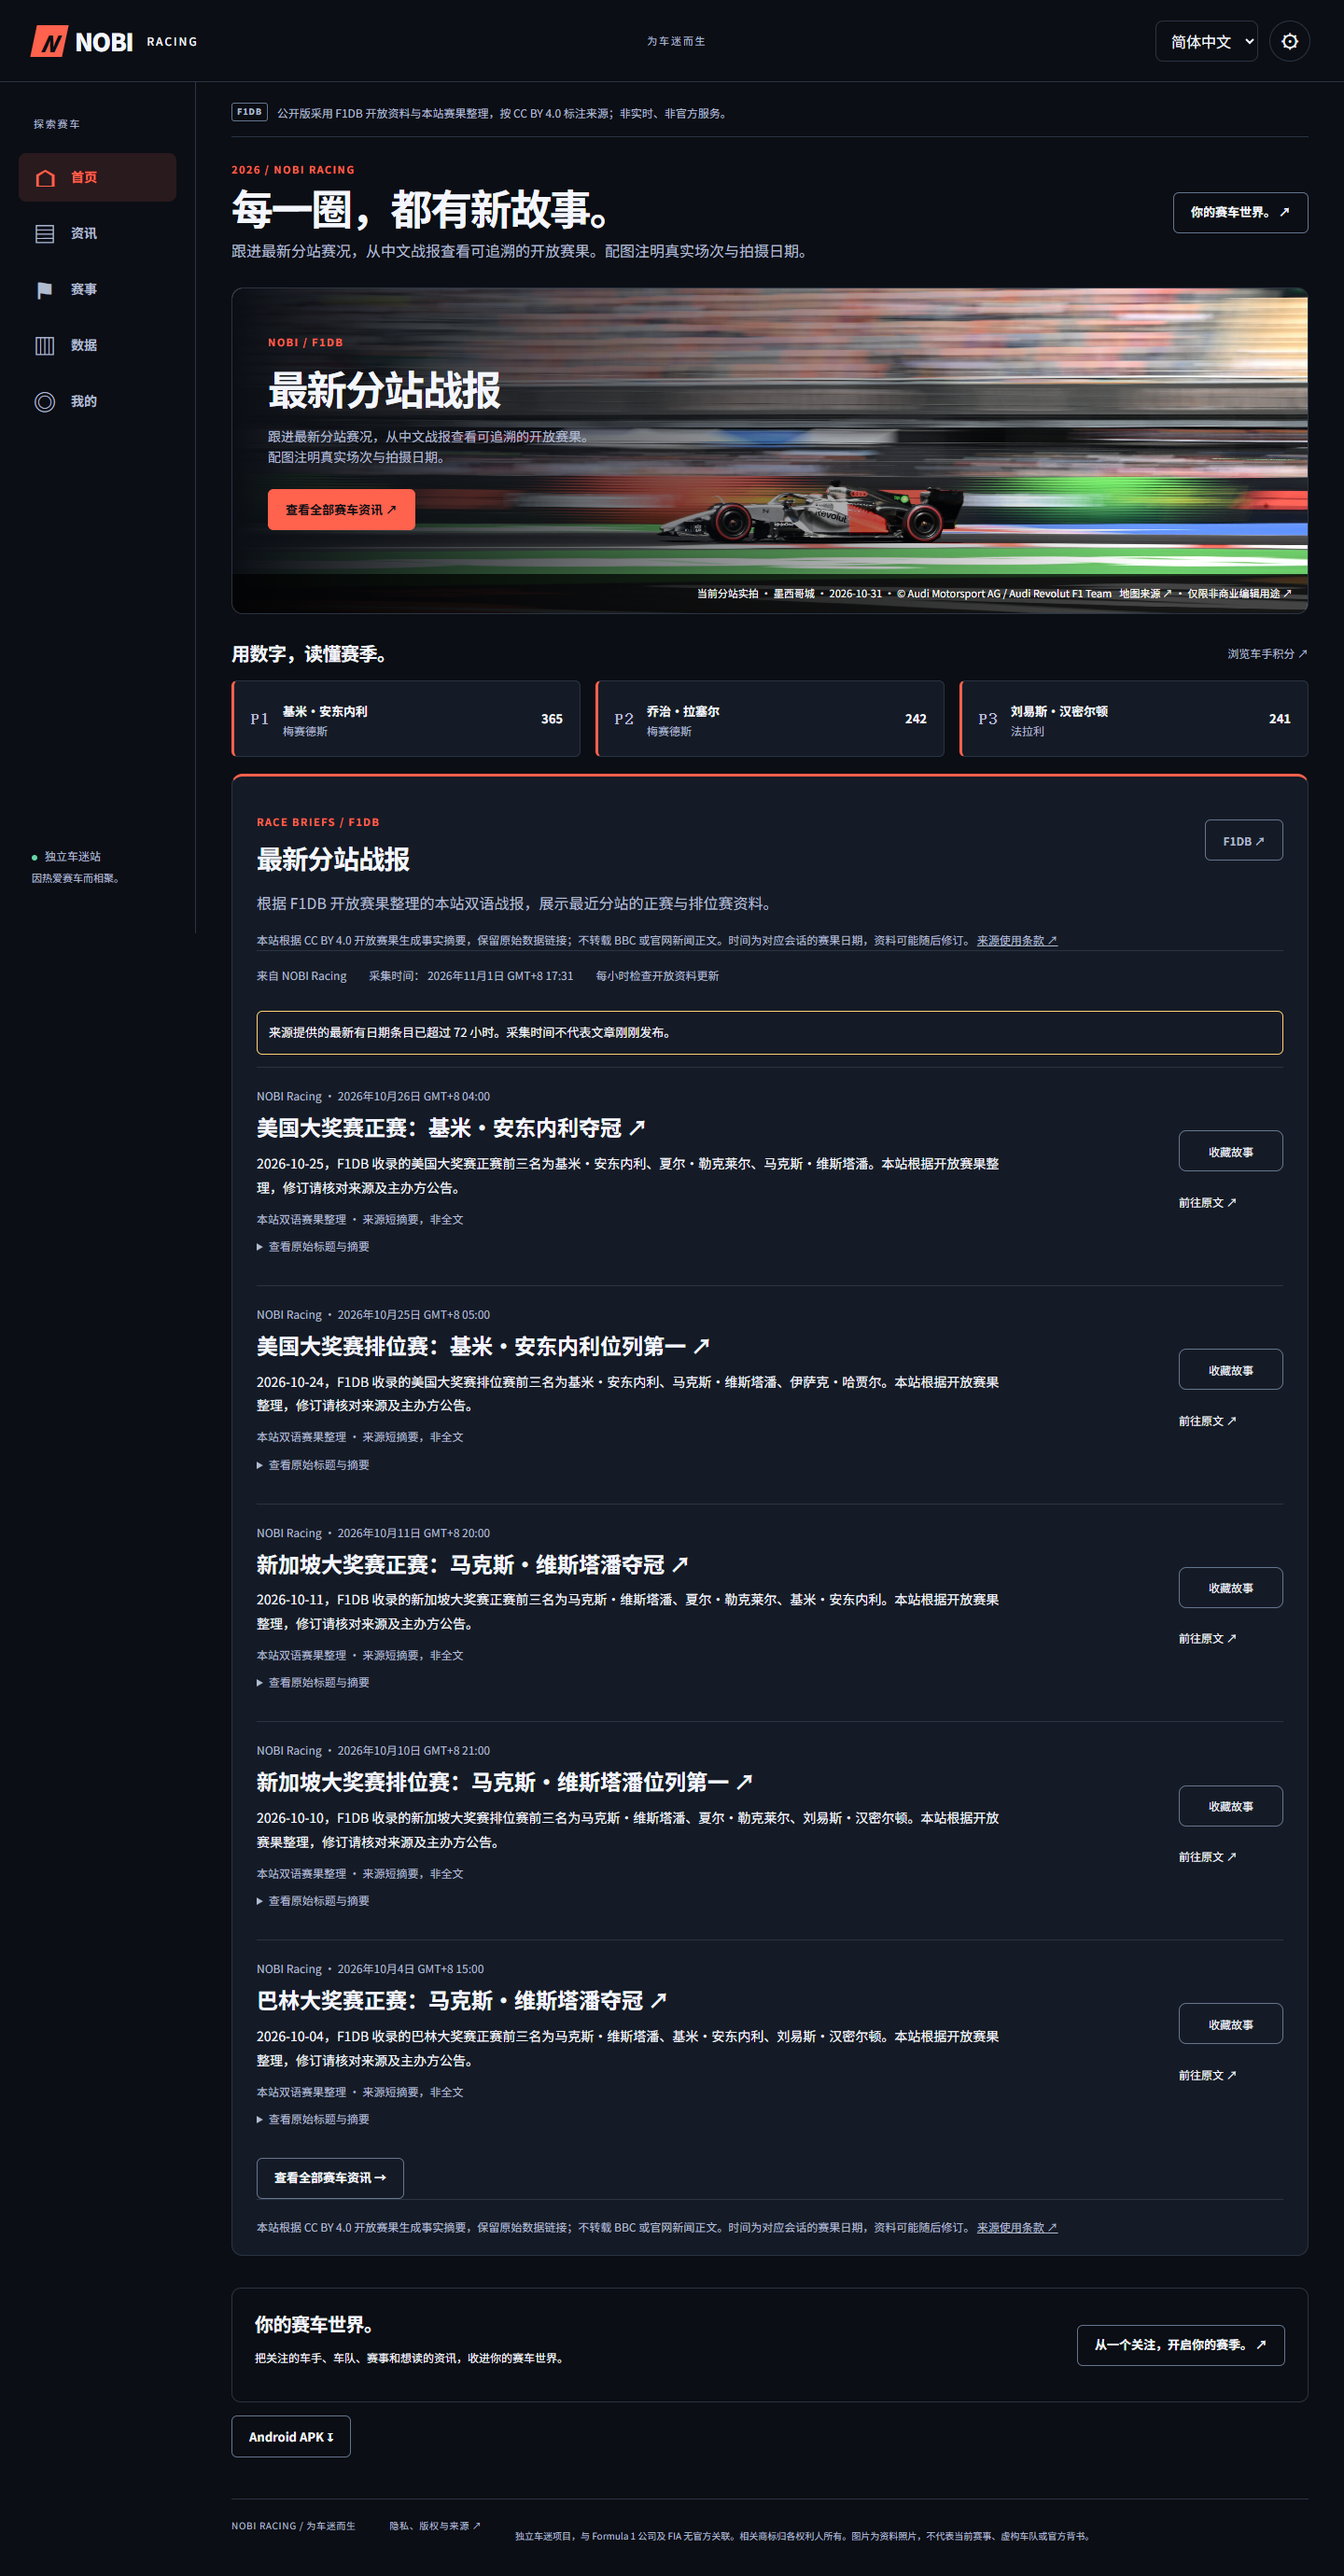
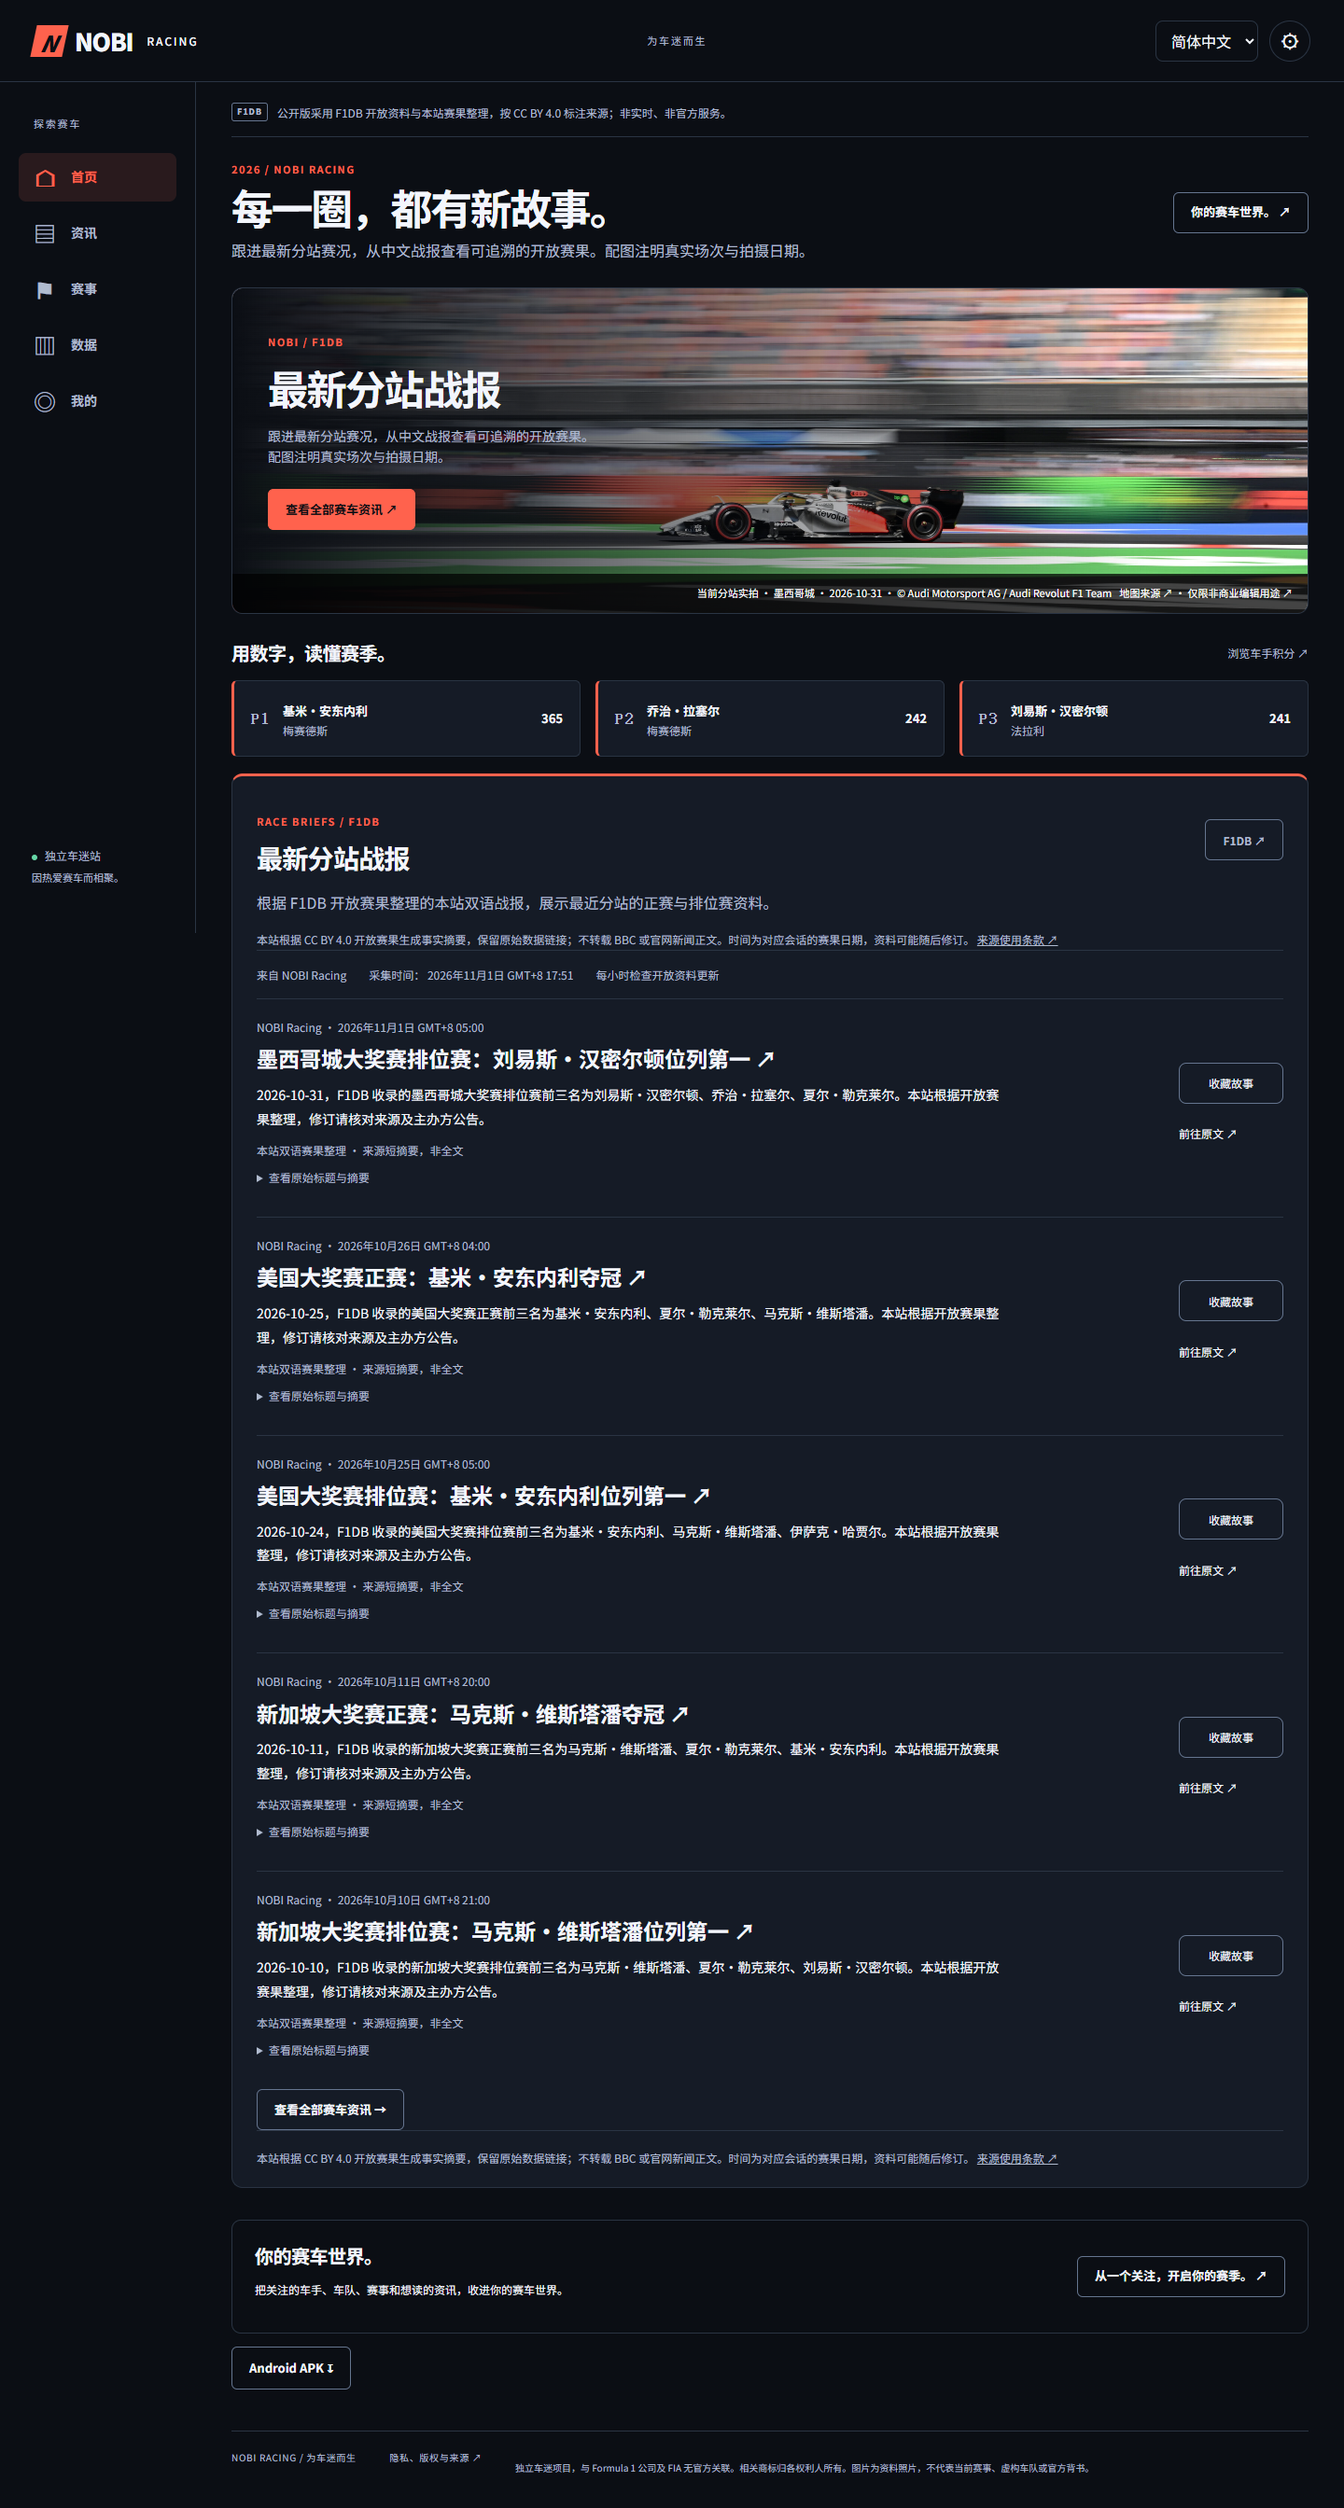
Record verified public, Android and TestFlight delivery

diff --git a/docs/phases/public-mobile-release.md b/docs/phases/public-mobile-release.md
@@ -6,7 +6,7 @@
 
 - 地址：https://api.nobistudio.com/racing/
 - 香港 Ubuntu 服务器内独立目录 `/opt/nobi-racing`、独立 Node 24 运行时、独立 `nobi-racing-public.service`。仅监听回环 5292，经现有 HTTPS Nginx 的 `/racing/` 路由提供服务。
-- 当前 release：`20261101093003`。安装脚本先准备完整目录，切换 symlink，检查数据就绪和 `nginx -t` 后平滑重载。未迁移或修改其他应用数据库。
+- 当前 release：`20261101095031`。安装脚本先准备完整目录，切换 symlink，检查数据就绪和 `nginx -t` 后平滑重载。未迁移或修改其他应用数据库。
 - F1DB CC BY 4.0 开放数据每小时在服务端同步；浏览器不直接抓上游。快照六小时有效。公开版不启用 BBC RSS、OpenF1 个人接入或合成赛历。
 - 发布时包括 23 个非取消/取消标记的周末条目、18 场已完成正赛快照、20 条 NOBI 原创中英文简报。F1DB 发布存在延迟，不声称官方实时成绩。预估会话结束时间另行注明。
 - 赛车照片为 2026 墨西哥城大奖赛 10 月 31 日 Audi 官方实拍；非商业编辑用途条件、署名及原始许可页见 `docs/licensing/race-photo-record.md`。页面仅在当前/最近开始分站有对应已核验图片时展示，避免把旧站图标成新站图。
@@ -15,9 +15,9 @@
 ## Android
 
 - 下载：https://api.nobistudio.com/racing/downloads/NOBI-Racing.apk
-- 包名 `com.nobistudio.racing`，版本 `1.0 (1)`，最低 Android 7.0 / API 24，目标 API 36。
+- 包名 `com.nobistudio.racing`，版本 `1.0 (2)`，最低 Android 7.0 / API 24，目标 API 36。
 - 当前是 debug 签名的测试安装包；已通过 `apksigner verify` 和包元数据检查，未提交 Google Play，未进行实体手机安装验收。
[2 lines of base64/hex data omitted]
 - 不允许明文流量，禁用 Android backup，使用 HTTPS 公开数据服务。无广告或分析 SDK。
 
 ## iOS / Codemagic
@@ -26,7 +26,7 @@
 - Codemagic App：`6ae70684fd8c853064084b4a`。仅此应用可使用加密变量组 `nobi_racing_signing`；七项签名变量已确认 `secure=true`。
 - `ios-archive` 首次构建成功：<https://codemagic.io/app/6ae70684fd8c853064084b4a/build/6ae707d81d4337d8092678ca>，产出已签名 `App.ipa`。
 - Apple App Store Connect 应用记录已核验，ID `6829415439`，Bundle ID 一致。
-- `ios-testflight` 已启动：<https://codemagic.io/app/6ae70684fd8c853064084b4a/build/6ae708cd83f03c2273c74e2e>。上传与 Apple 处理结果待完成后更新。
+- 最终 `ios-testflight` 成功：<https://codemagic.io/app/6ae70684fd8c853064084b4a/build/6ae70b3332c7d01c709ee0e7>。Apple 已接收 `1.0 (103)`，处理状态 `VALID`，内部测试状态 `READY_FOR_BETA_TESTING`；外部状态 `READY_FOR_BETA_SUBMISSION`，尚未提交外部审核。
 - 没有创建公开测试邀请、发送测试邮件或提交 App Store 正式审核。IPA 签名构建成功不等同于 TestFlight 已就绪。
 
 ## 验证
@@ -34,7 +34,9 @@
 - ESLint、TypeScript、49 项 Vitest、3 项基线测试、3 项公开数据服务测试通过。
 - Android 构建成功，123 个 Gradle 任务；APK 签名及公网 SHA-256 复核通过。
 - 公网 HTTPS、赛历/积分/简报接口均返回 200 和就绪状态，证据位于 `docs/verification/release/public-http.json`。
-- 浏览器交互与移动尺寸验证结果位于 `docs/verification/release/`，云端构建结果以 Codemagic/Apple 实际状态为准。
+- 桌面 1440×1000、手机尺寸 390×844 的真实浏览器检查通过：首页实际分站照片、积分、地图、关注、书签、刷新保留、中英文/深浅切换、来源、无横向溢出。未替换 API 或使用测试数据。
+- 本站 `no-transform` 响应阻止共享 Cloudflare 自动插入分析脚本；已核实响应与浏览器无外部请求。共享 CDN 对公开 API 仍反射 Origin；两个原生 Origin 可用。直连 Node/Nginx 限原生 Origin，公开 API 本身不含登录、身份、密钥或私有数据。没有修改其他应用的 CDN 规则。
+- 浏览器、隐私/CORS 和 Apple 实际状态证据位于 `docs/verification/release/`。尚未进行实体 Android/iPhone 安装验收，也没有分配内部测试员或发送邀请。
 
 ## 后续更新
 
